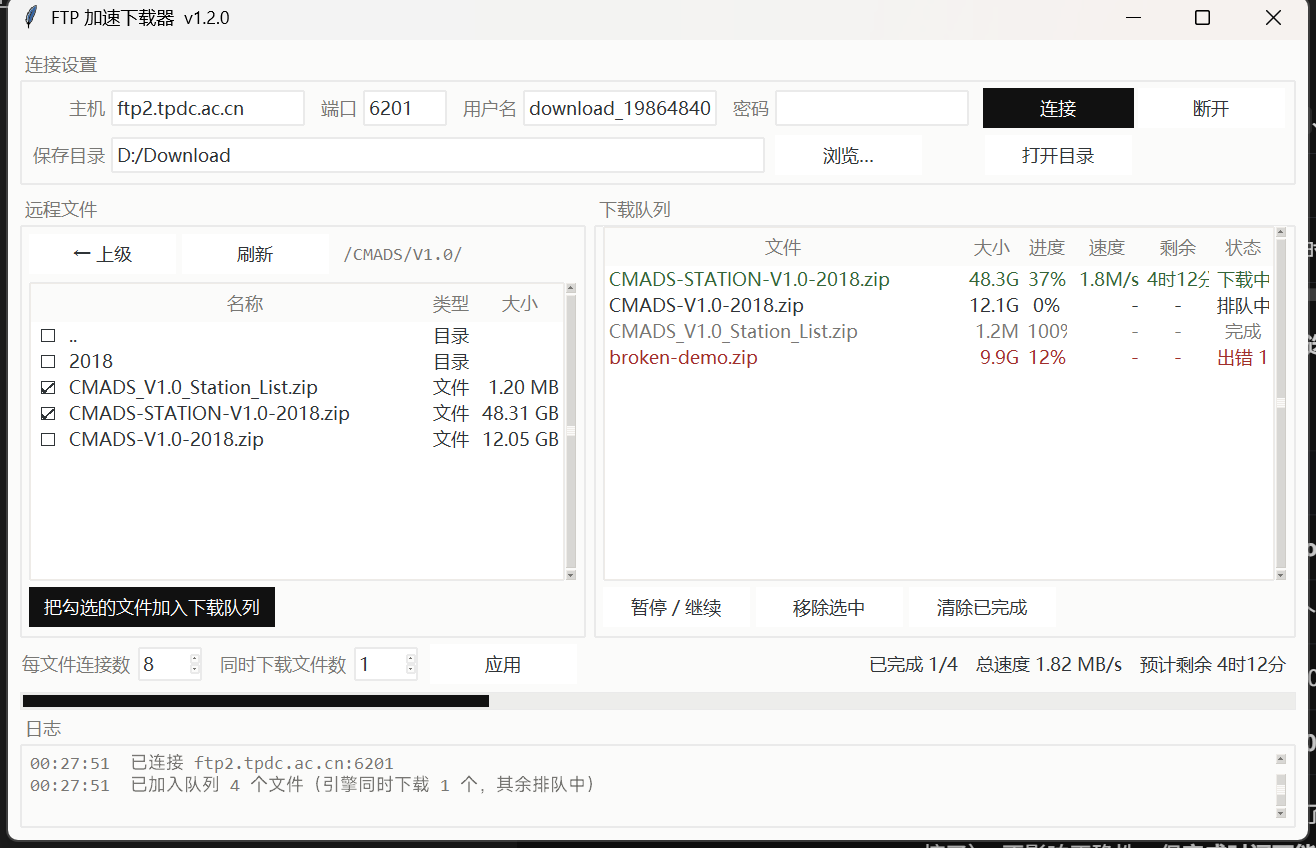
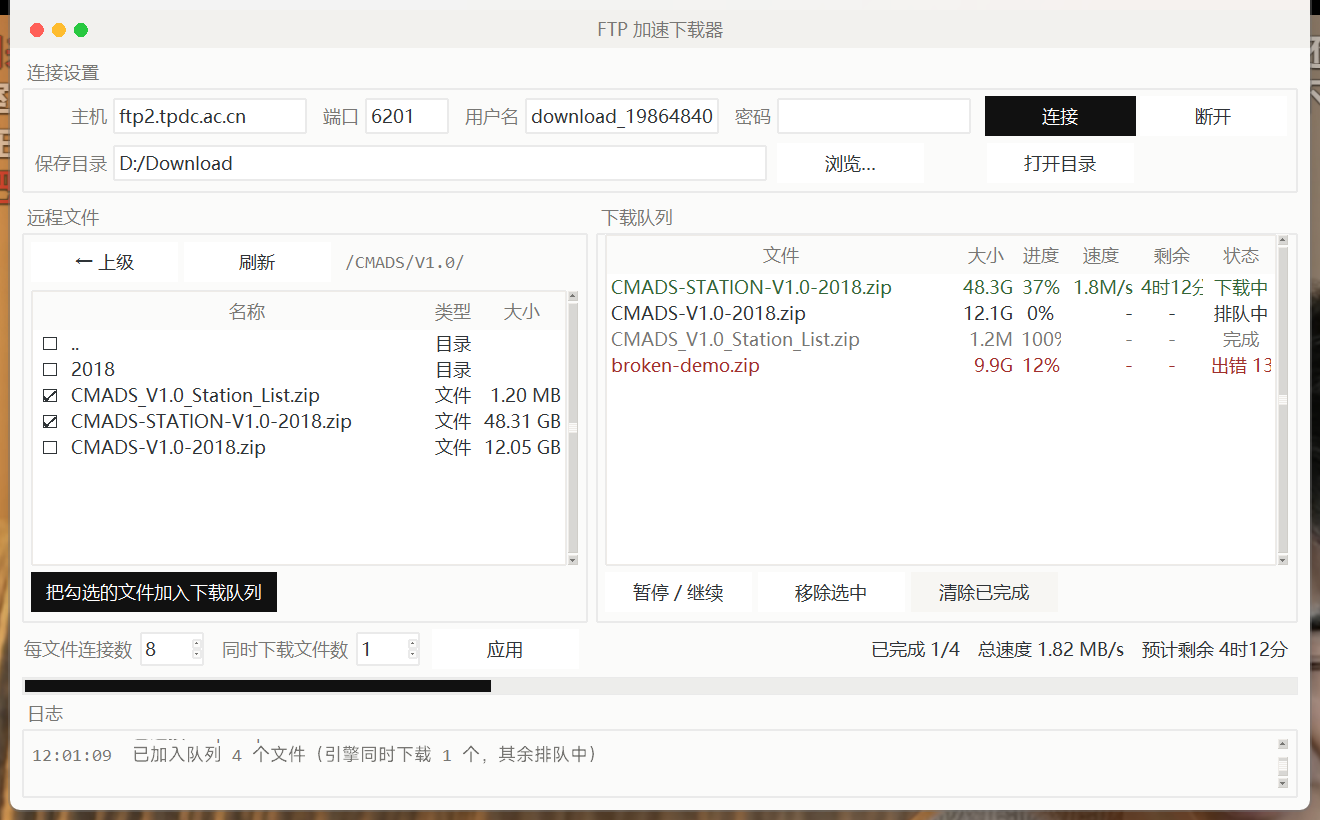
v1.3.0：窗口改为仿 Mac 样式（自绘标题栏 + 红黄绿三圆点）

diff --git a/ftp_accel.py b/ftp_accel.py
@@ -32,7 +32,7 @@ from tkinter import ttk, filedialog, messagebox
 # ================================ 常量配置 ================================
 
 APP_NAME = "FTP 加速下载器"
-APP_VERSION = "1.2.0"
+APP_VERSION = "1.3.0"
 
 RPC_TIMEOUT = 10          # 单次 RPC 调用超时（秒）
 
@@ -66,6 +66,13 @@ FG_WARN = "#956400"       # 暂停
 
 FONT_UI = ("Microsoft YaHei UI", 9)
 FONT_MONO = ("Consolas", 9)
+
+# ---- 仿 Mac 窗口 ----
+TITLEBAR_BG = "#F2F1EE"   # 标题栏（比画布略深一档）
+DOT_CLOSE = "#FF5F57"     # 红：关闭
+DOT_MIN = "#FEBC2E"       # 黄：最小化
+DOT_MAX = "#28C840"       # 绿：最大化 / 还原
+TITLEBAR_H = 38           # 标题栏高度
 
 
 def resource_path(rel):
@@ -193,6 +200,30 @@ def apply_theme(root):
     style.map("TScrollbar",
               background=[("active", "#BEBDB9")],
               arrowcolor=[("active", TEXT)])
+
+
+def strip_window_chrome(root):
+    """摘掉 Windows 原生标题栏，但保留可缩放边框和任务栏图标（仿 Mac 无边框窗口）。
+
+    只用 tkinter 的 overrideredirect(True) 会让窗口从任务栏消失、且无法最小化，
+    所以改走 Win32 窗口样式：仅去掉 WS_CAPTION。
+    """
+    if os.name != "nt":
+        return
+    import ctypes
+
+    gwl_style = -16
+    ws_caption = 0x00C00000
+
+    root.update_idletasks()
+    hwnd = ctypes.windll.user32.GetParent(root.winfo_id())
+    if not hwnd:
+        hwnd = root.winfo_id()
+    style = ctypes.windll.user32.GetWindowLongW(hwnd, gwl_style)
+    ctypes.windll.user32.SetWindowLongW(hwnd, gwl_style, style & ~ws_caption)
+    # 样式改动要重挂一次窗口才生效
+    root.withdraw()
+    root.deiconify()
 
 
 # ============================ aria2 引擎封装 ============================
@@ -343,8 +374,11 @@ class App:
         self.poll_errors = 0              # 队列刷新异常计数
         self.last_jobs = None             # 上次应用的并发数
         self.ui_queue = queue.Queue()     # 后台线程 -> 主线程 的 UI 操作队列
+        self.maximized = False            # 窗口是否已最大化
+        self.restore_geom = ""            # 还原用的几何串
 
         self._build_ui()
+        strip_window_chrome(self.root)    # 摘掉原生标题栏，换成自绘的
         self._load_config()
         self.root.protocol("WM_DELETE_WINDOW", self.on_close)
 
@@ -360,6 +394,58 @@ class App:
 
     # ---------------------------- 界面构建 ----------------------------
 
+    def _build_titlebar(self):
+        """仿 Mac 的标题栏：左侧三个圆点、中间标题，整条可拖动。"""
+        bar = tk.Frame(self.root, bg=TITLEBAR_BG, height=TITLEBAR_H)
+        bar.grid(row=0, column=0, sticky="ew")
+        bar.grid_propagate(False)
+
+        dots = tk.Canvas(bar, width=72, height=TITLEBAR_H, bg=TITLEBAR_BG,
+                         highlightthickness=0, cursor="hand2")
+        dots.pack(side="left", padx=(14, 0))
+        for i, color in enumerate((DOT_CLOSE, DOT_MIN, DOT_MAX)):
+            x = 6 + i * 22
+            dots.create_oval(x, 13, x + 13, 26, fill=color, outline="")
+        dots.bind("<Button-1>", self._on_dot_click)
+
+        title = tk.Label(bar, text=APP_NAME, bg=TITLEBAR_BG, fg=TEXT_MUTED, font=FONT_UI)
+        title.place(relx=0.5, rely=0.5, anchor="center")
+
+        for widget in (bar, title):
+            widget.bind("<Button-1>", self._start_drag)
+            widget.bind("<B1-Motion>", self._on_drag)
+        bar.bind("<Double-Button-1>", lambda e: self._toggle_maximize())
+
+    def _on_dot_click(self, event):
+        if event.x < 24:
+            self.on_close()
+        elif event.x < 46:
+            self._minimize()
+        else:
+            self._toggle_maximize()
+
+    def _start_drag(self, event):
+        self._drag_dx = event.x_root - self.root.winfo_x()
+        self._drag_dy = event.y_root - self.root.winfo_y()
+
+    def _on_drag(self, event):
+        x = event.x_root - self._drag_dx
+        y = event.y_root - self._drag_dy
+        self.root.geometry(f"+{x}+{y}")
+
+    def _minimize(self):
+        self.root.iconify()
+
+    def _toggle_maximize(self):
+        if self.maximized:
+            self.root.state("normal")
+            if self.restore_geom:
+                self.root.geometry(self.restore_geom)
+        else:
+            self.restore_geom = self.root.geometry()
+            self.root.state("zoomed")
+        self.maximized = not self.maximized
+
     def _build_ui(self):
         self.var_host = tk.StringVar(value=DEFAULT_HOST)
         self.var_port = tk.StringVar(value=DEFAULT_PORT)
@@ -372,8 +458,16 @@ class App:
         self.var_path = tk.StringVar(value="/")
 
         self.root.columnconfigure(0, weight=1)
-        self.root.rowconfigure(1, weight=3)
-        self.root.rowconfigure(3, weight=2)
+        self.root.rowconfigure(1, weight=1)
+
+        self._build_titlebar()
+
+        # 原生标题栏随后会被摘掉，内容全部挂在 content 里
+        self.content = tk.Frame(self.root, bg=BG)
+        self.content.grid(row=1, column=0, sticky="nsew")
+        self.content.columnconfigure(0, weight=1)
+        self.content.rowconfigure(1, weight=3)
+        self.content.rowconfigure(3, weight=2)
 
         self._build_conn_area()
         self._build_middle_area()
@@ -381,7 +475,7 @@ class App:
         self._build_log_area()
 
     def _build_conn_area(self):
-        frame = ttk.LabelFrame(self.root, text=" 连接设置 ")
+        frame = ttk.LabelFrame(self.content, text=" 连接设置 ")
         frame.grid(row=0, column=0, sticky="ew", padx=12, pady=(12, 6))
         for col in (1, 3, 5, 7):
             frame.columnconfigure(col, weight=1)
@@ -421,7 +515,7 @@ class App:
             row=1, column=8, padx=4, pady=(0, 9))
 
     def _build_middle_area(self):
-        mid = ttk.Frame(self.root)
+        mid = ttk.Frame(self.content)
         mid.grid(row=1, column=0, sticky="nsew", padx=12, pady=6)
         mid.columnconfigure(0, weight=4)
         mid.columnconfigure(1, weight=6)
@@ -501,7 +595,7 @@ class App:
         ttk.Button(qbar, text="清除已完成", command=self.clear_finished).pack(side="left")
 
     def _build_status_area(self):
-        frame = ttk.Frame(self.root)
+        frame = ttk.Frame(self.content)
         frame.grid(row=2, column=0, sticky="ew", padx=12, pady=(0, 6))
         frame.columnconfigure(0, weight=1)
 
@@ -526,7 +620,7 @@ class App:
         self.pbar.grid(row=1, column=0, sticky="ew", pady=(8, 0))
 
     def _build_log_area(self):
-        frame = ttk.LabelFrame(self.root, text=" 日志 ")
+        frame = ttk.LabelFrame(self.content, text=" 日志 ")
         frame.grid(row=3, column=0, sticky="nsew", padx=12, pady=(0, 12))
         frame.columnconfigure(0, weight=1)
         frame.rowconfigure(0, weight=1)
